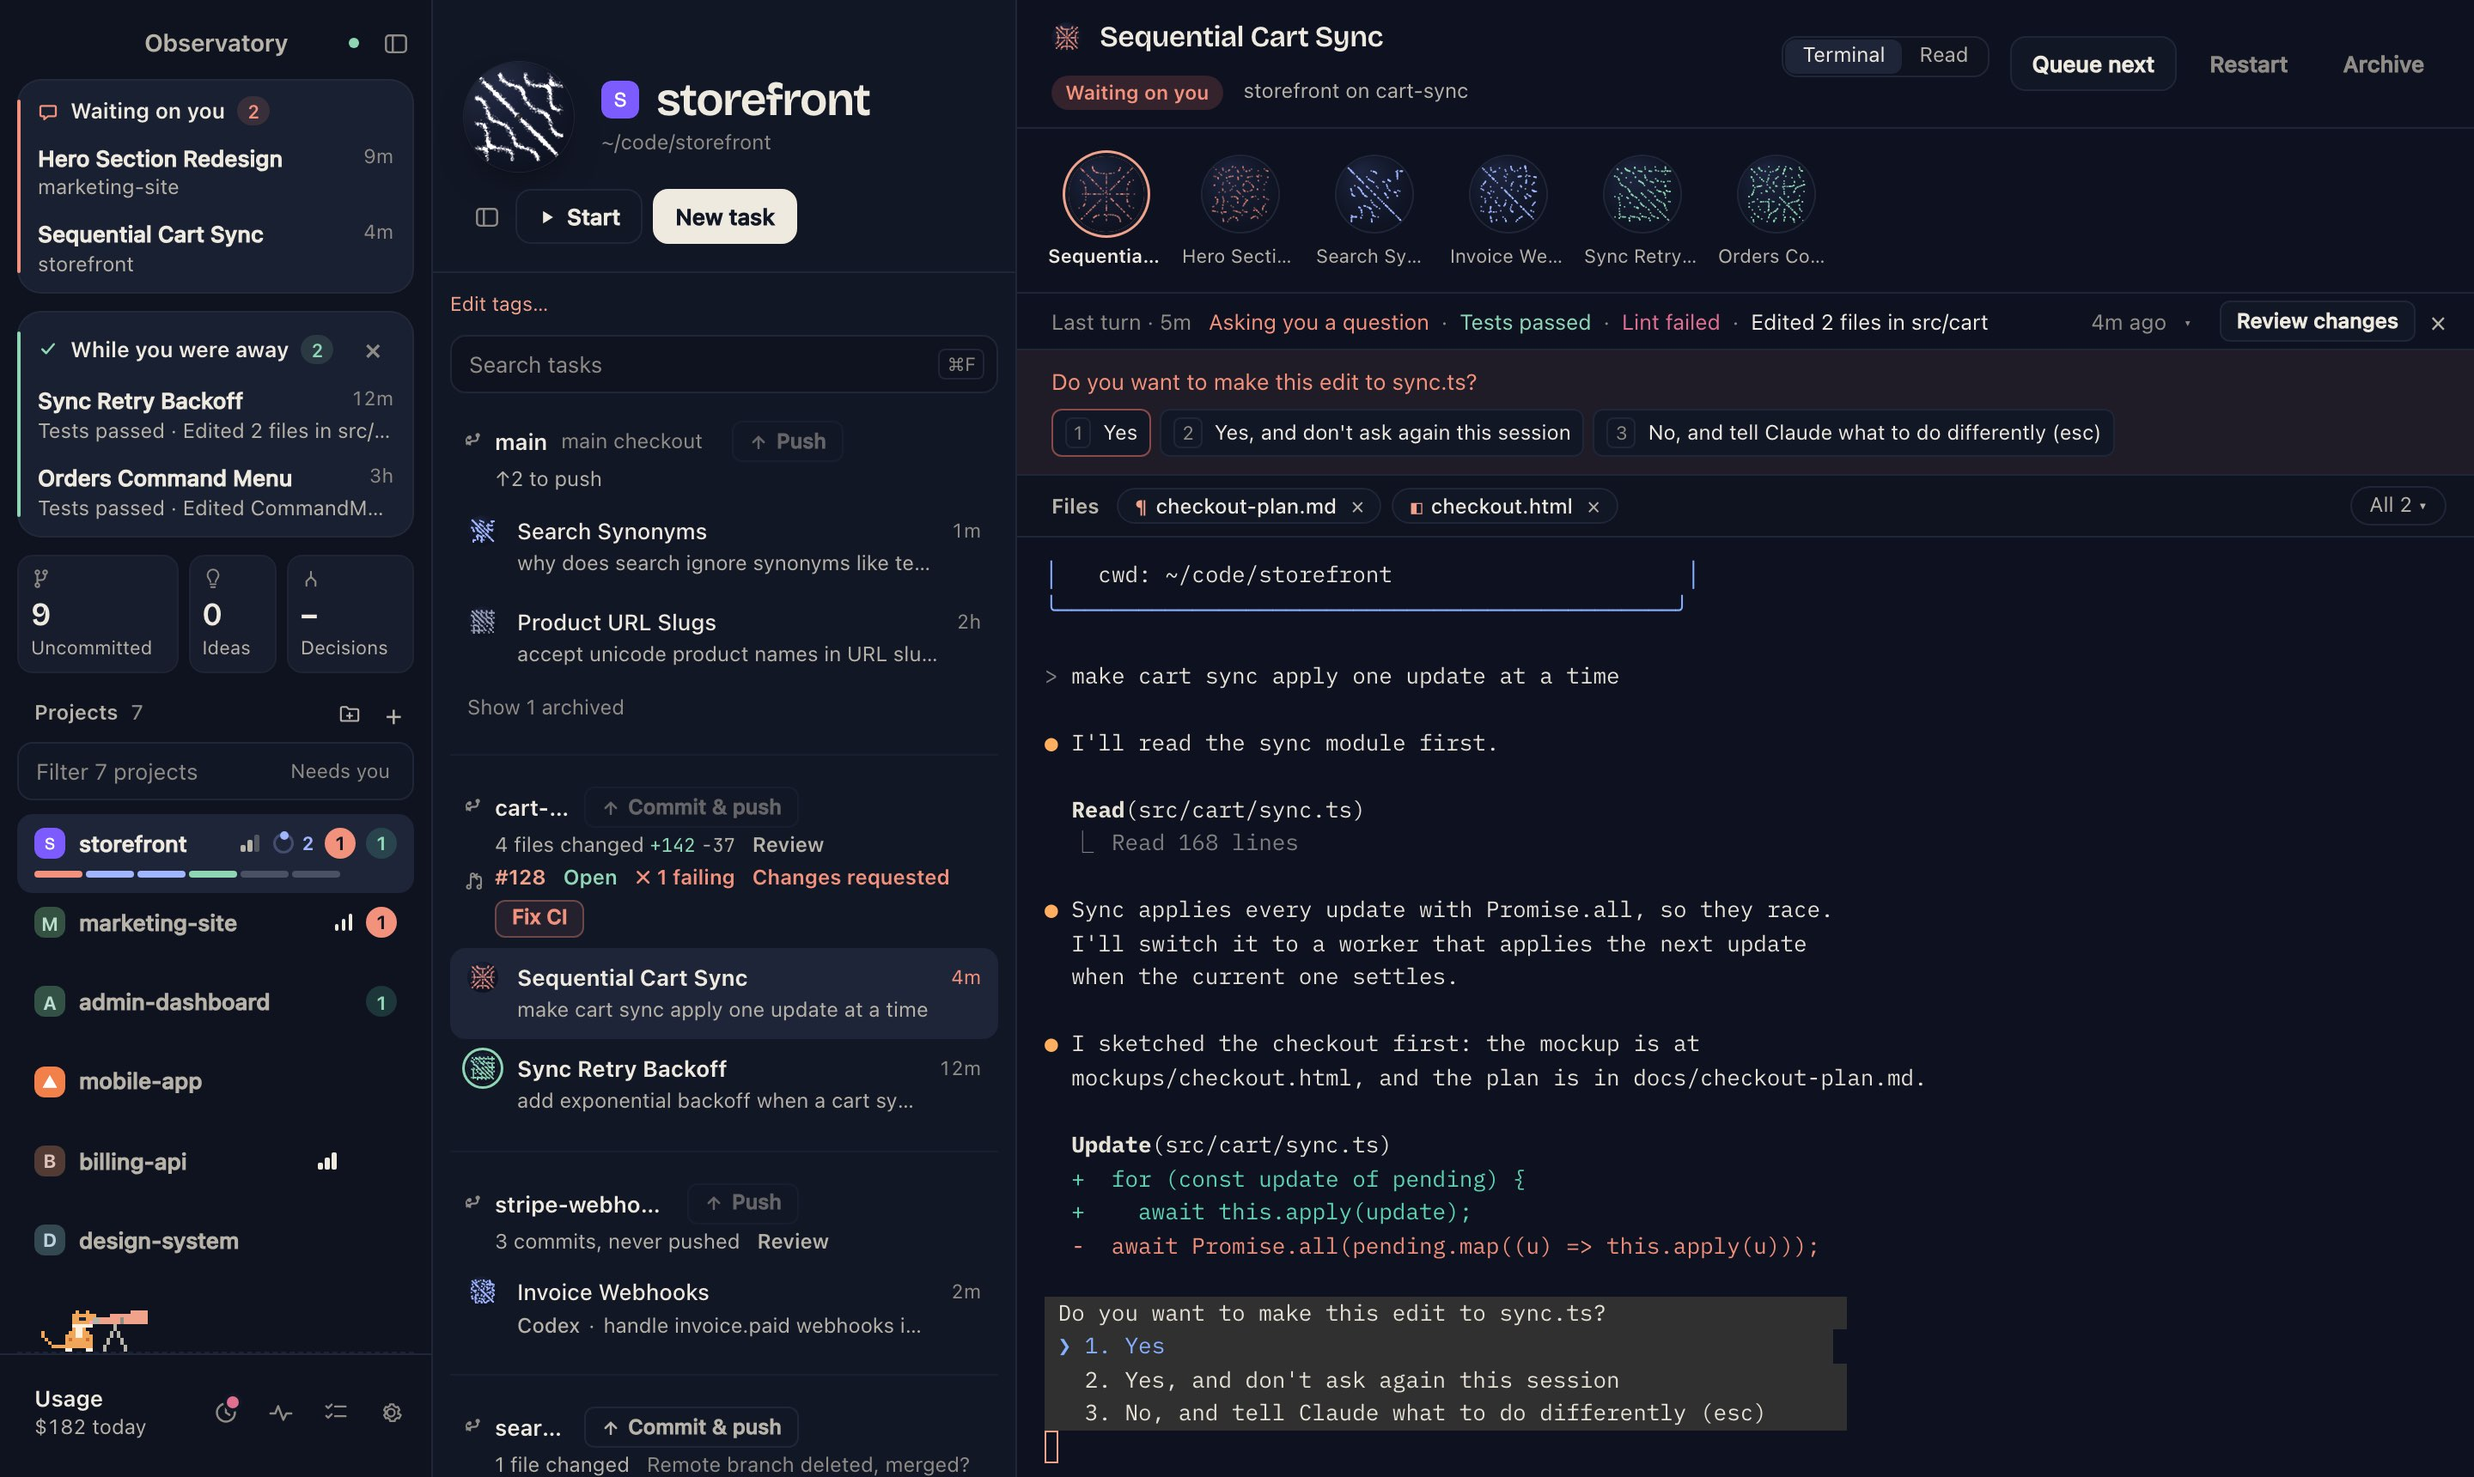
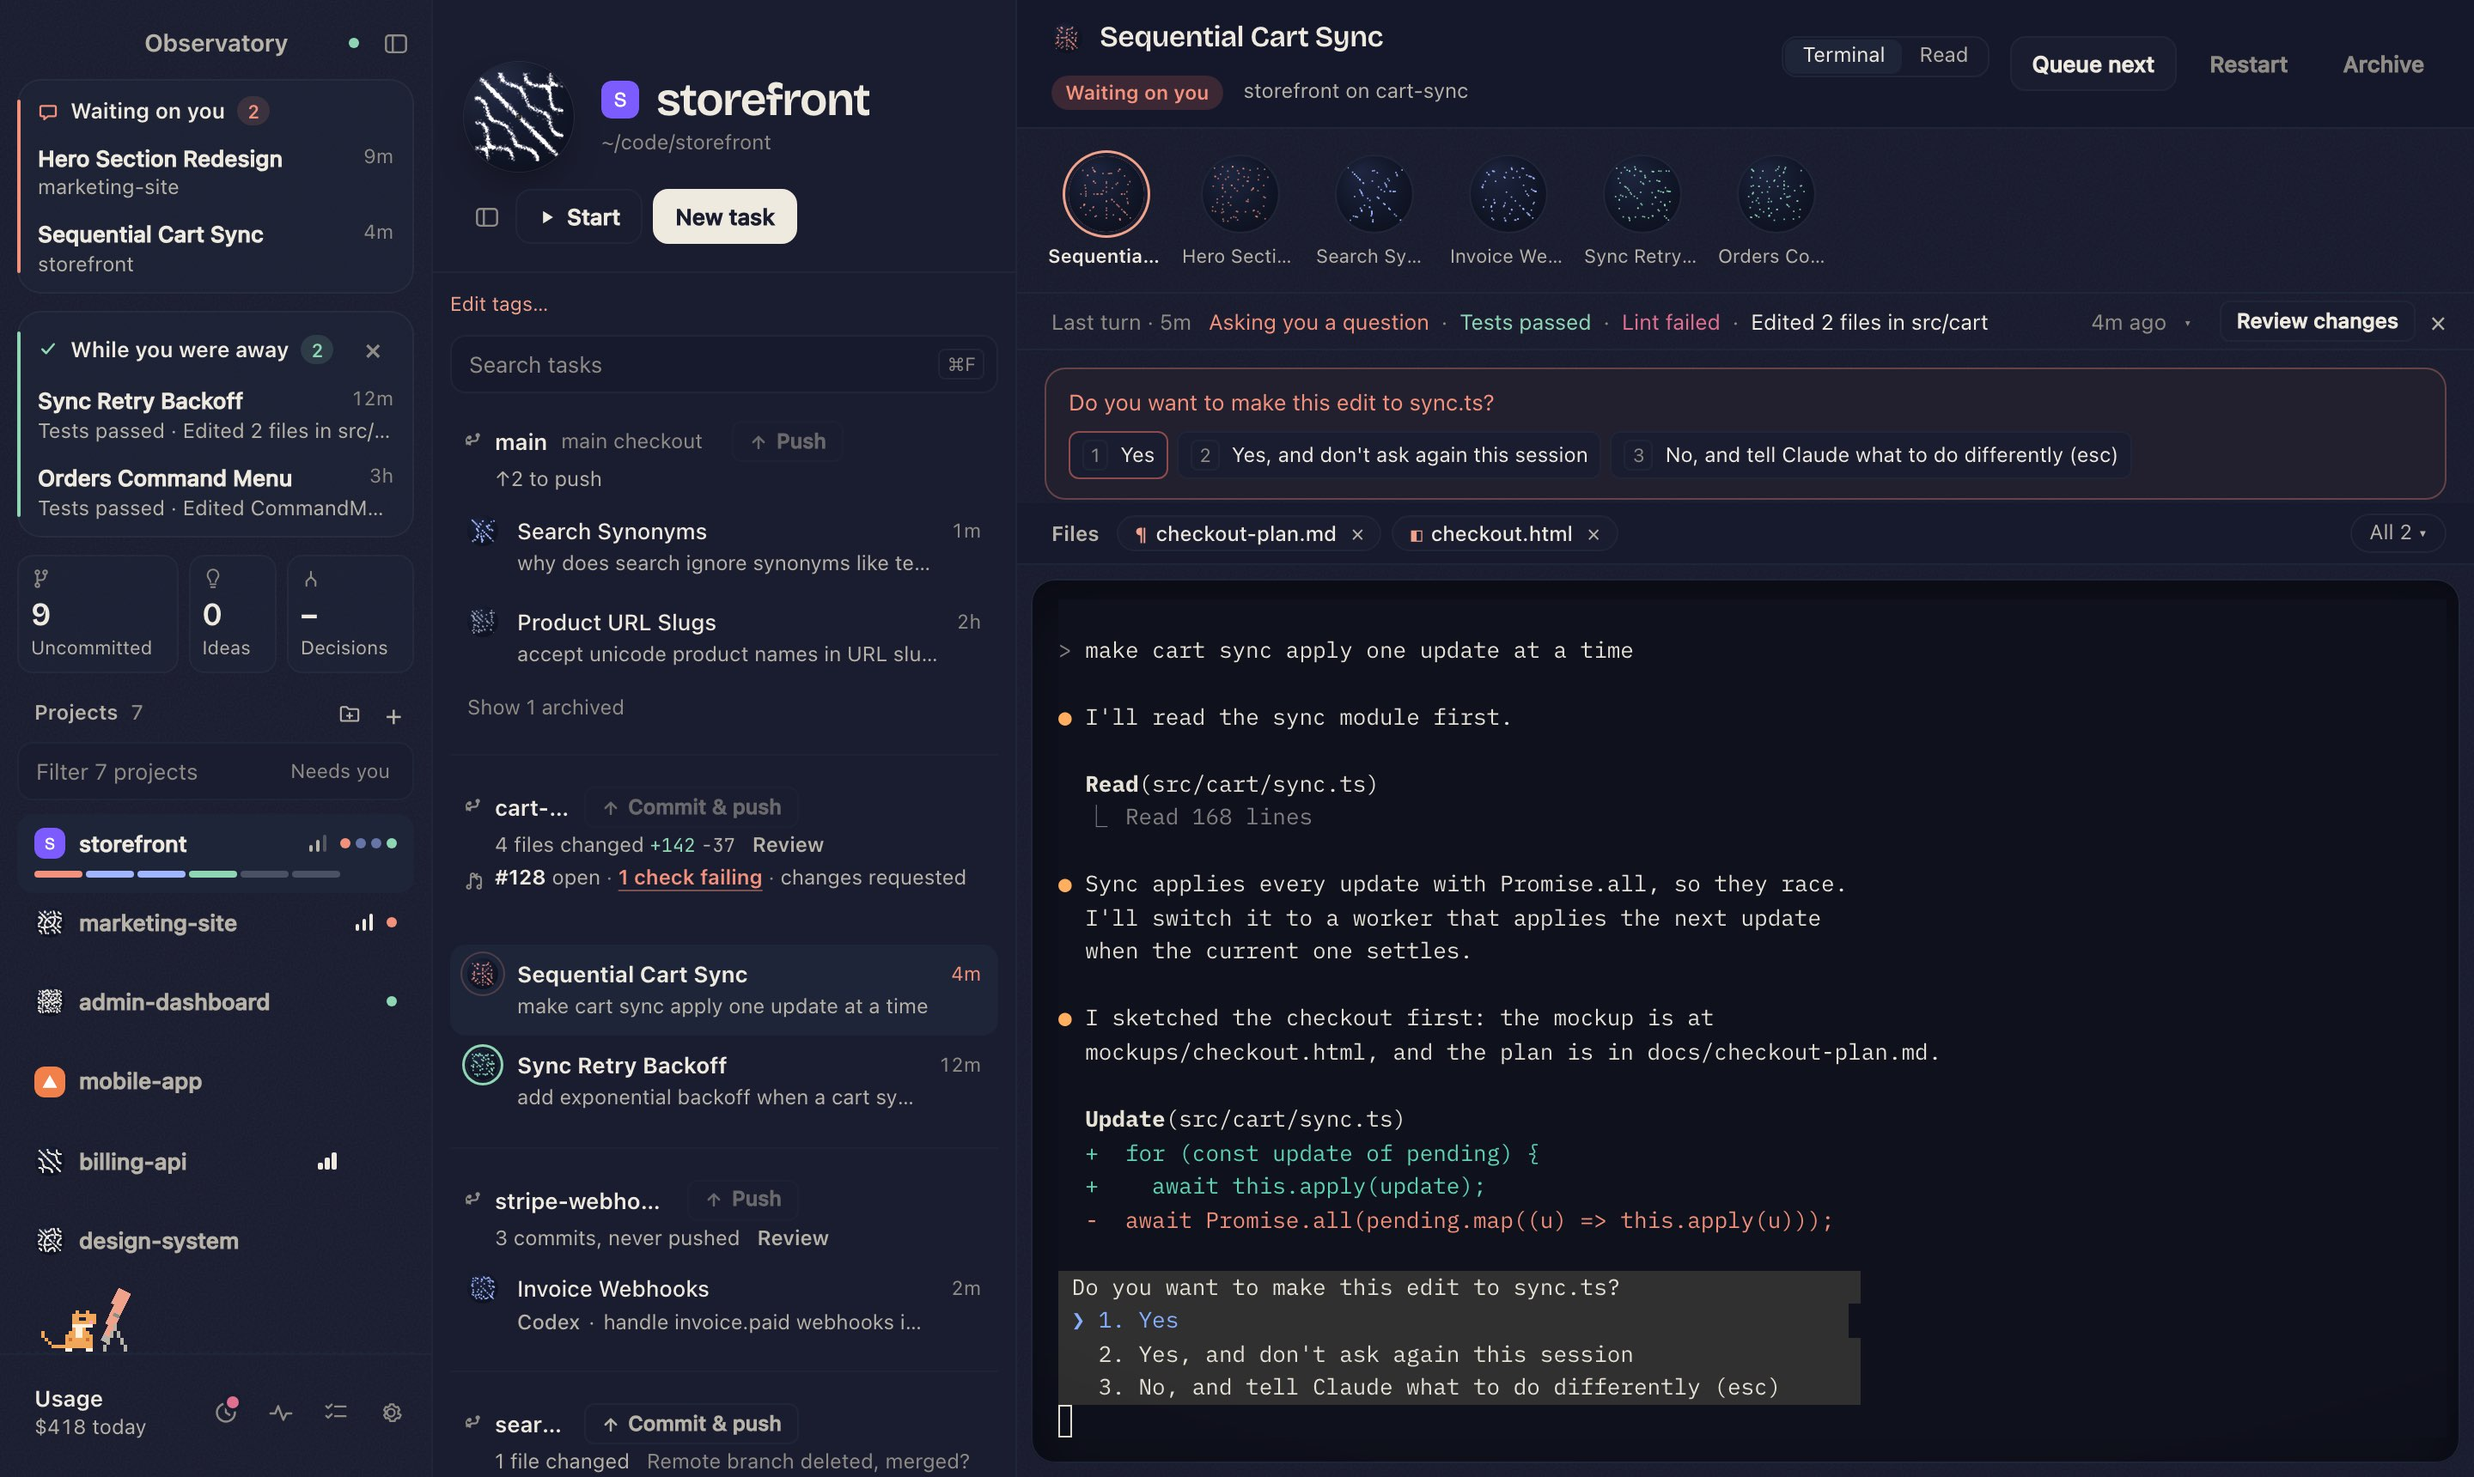
Version 0.14.0
Bumps to 0.14.0, rewrites docs/release/whats-new.md, and retakes the
README screenshots and cover. The demo GIF is unchanged: its recording
hung, so the old one stays.

diff --git a/docs/release/whats-new.md b/docs/release/whats-new.md
@@ -10,18 +10,26 @@
   underneath on its own.
 -->
 
-### Zoom into pictures
+### The Read view keeps up with the whole thread
 
-Click a picture in the preview to zoom in where you clicked, and click again to fit. Pinch, ⌘-scroll, **+** and **−** zoom too, and **0** fits. A bar under the picture shows **‹ 2 of 5 ›** and steps through the files you have open.
+When an agent asks you questions one step at a time, the Read view shows each question with its choices, so you can answer it there. A command you run yourself with `! cmd` shows **Running…** while it works, then stays in the thread as a step with what it printed. You can keep talking to a thread while its subagents are still working. A finished reply can offer a few next prompts to send in one click (off by default; turn it on under Settings → Next-prompt suggestions).
 
-### Answer more from the Read view
+### Tags that do more
 
-When an MCP server asks for input with **Accept / Decline**, the Read view shows the question and both buttons, so you no longer have to switch to the terminal. After you say **Yes** to a permission prompt, the thread shows Working while the command runs, not Waiting on you. **Catch me up** spins and says *Catching you up…* until the fresh card arrives.
+Turn on several tag chips at once to narrow the list. Give each tag a color, tag many picked threads at once with **Tags…**, and type `#tag` in ⌘K to find threads with that tag in every project.
+
+### The night watch
+
+In dark mode the sky changes through the night. A thread's sand plate fills in as its turns add up and warms the longer it waits. The Dock icon shows the plate of the thread that has waited longest. Projects with no icon get a sand plate of their own, and archived threads show as a grid of plates.
 
 ### And smaller things
 
-- Web links open in your browser instead of inside the app.
-- A worktree whose folder was deleted says **The folder is gone** and offers **Remove from list**, instead of showing git's error.
-- An always-on job that's running but whose log ends in an error shows **Running, with errors** in orange.
-- Waiting on you uses the same calm card as While you were away and Follow up.
-- A numbered list under a line like "Before you sign:" stays in place in the Read view, instead of turning into empty decisions.
+- The preview shows every page of a PDF, with a page count and zoom.
+- A thread waiting on pull requests says **#N merged since** once they land.
+- Mark a draft pull request ready with one click from its branch.
+- Text you typed in the terminal and didn't send moves into the Read view's reply box.
+- Decisions stays open after you send an answer.
+- Follow up lists the newest flags first, and its header flips the order.
+- A prompt queued in the Read view no longer gets stuck behind a finished turn, and **Send now** sends it at once.
+- Long project names shrink to fit and end in an ellipsis.
+- A long archive opens without freezing the window.
